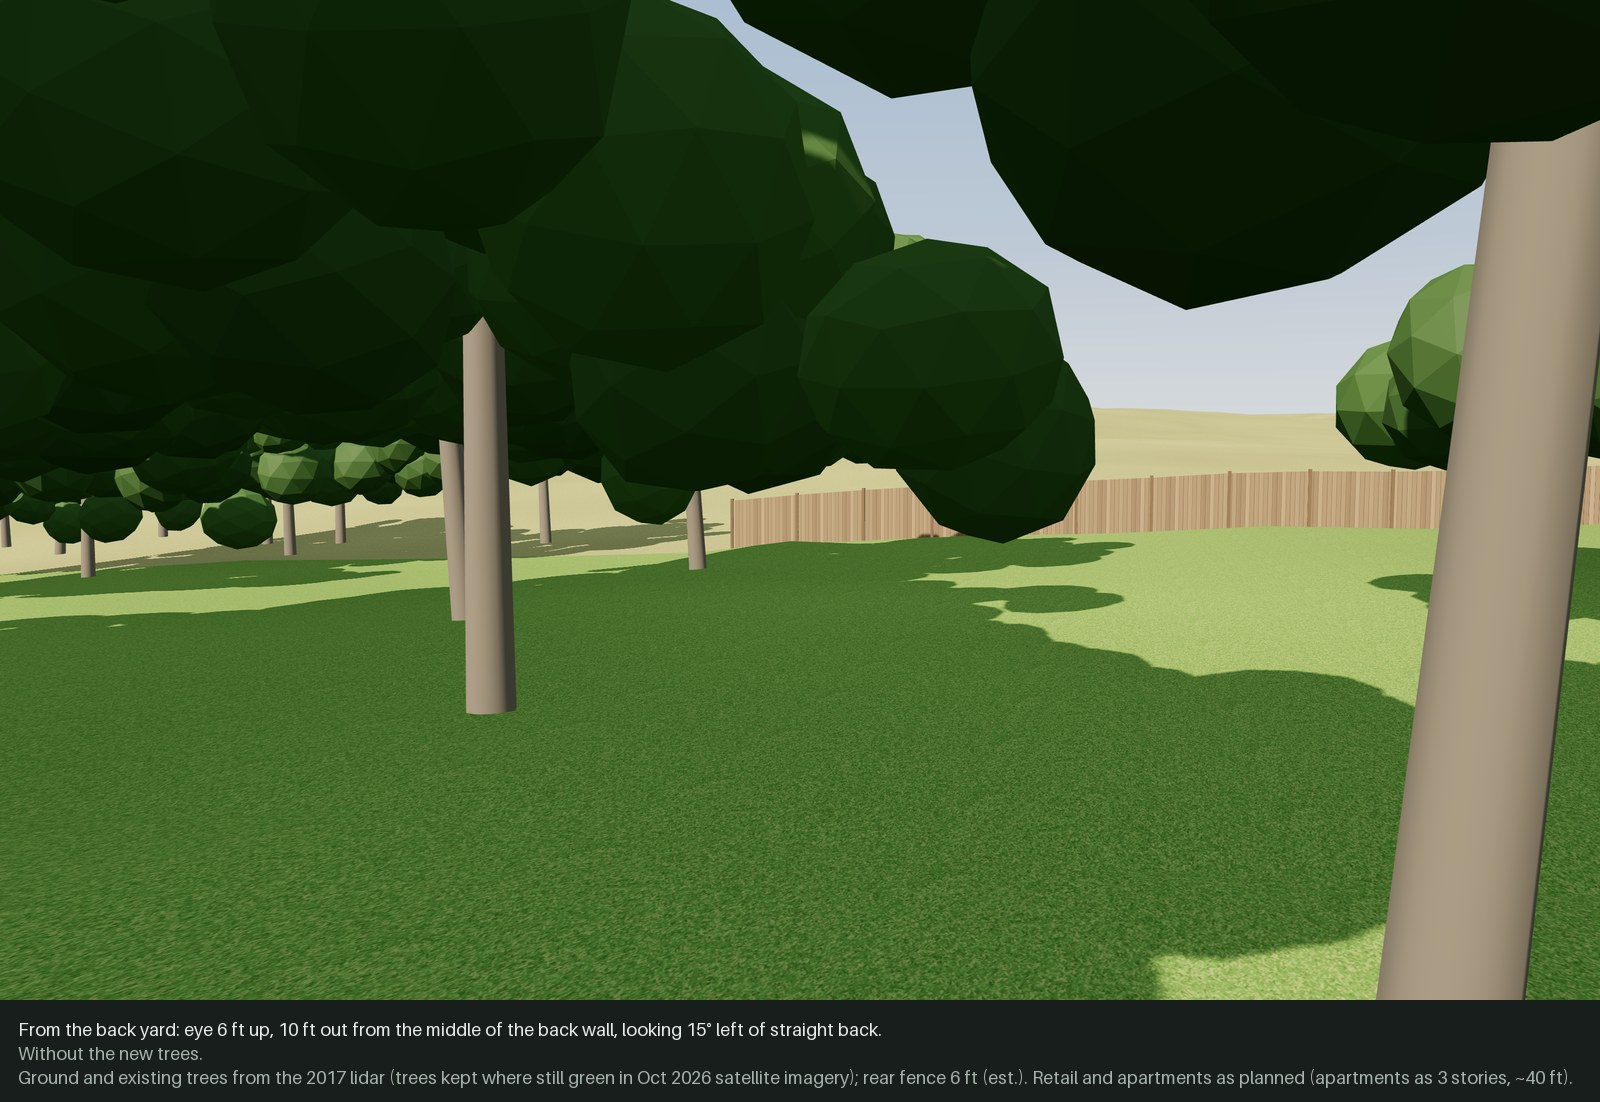
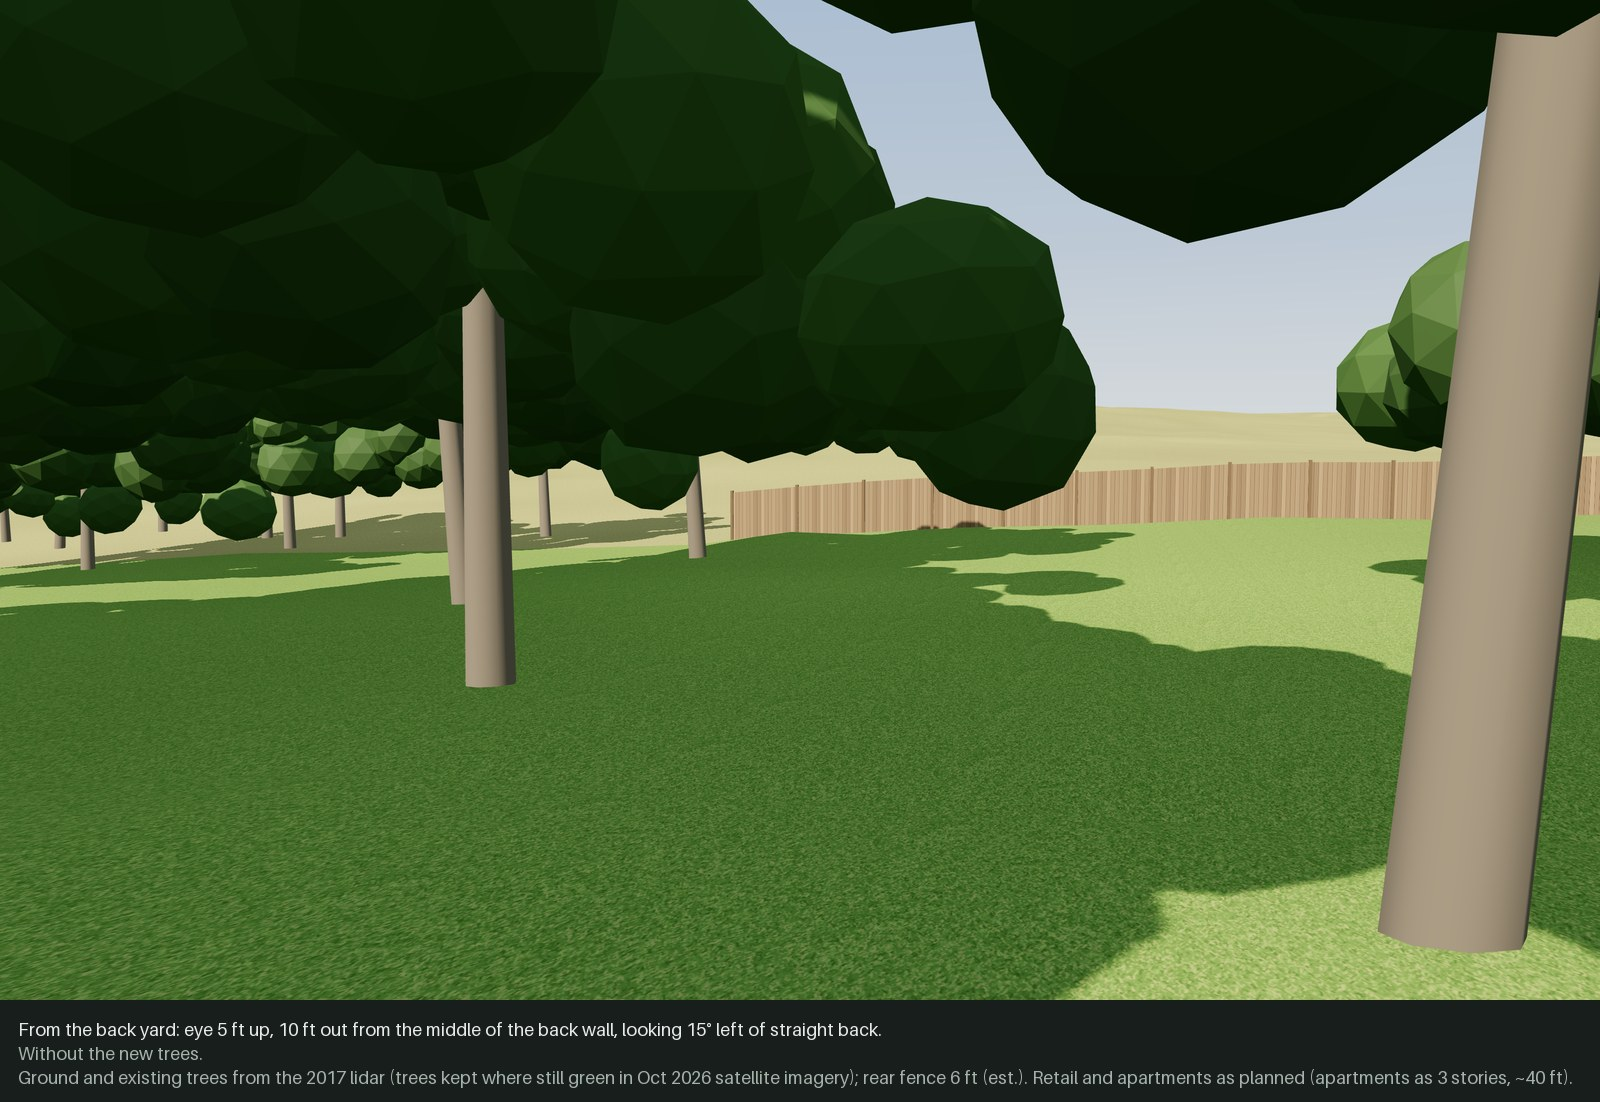
Mark the photo spot; eye at the owner's 5 ft camera height
The viewer marks the back-yard eye in the overhead and oblique views. It
gets a dot that keeps its size and shows through the trees, a pin, an
arrow on the ground along the gaze, and a "Photo spot" label. Clicking
it gives directions: 22.9 ft along the main back wall from the house's
SW corner, then 10 ft straight out, facing 15 degrees left of straight
back. The marker hides while looking from the spot itself.

The eye drops from 6 ft to 5 ft, the height the owner's camera will be
at, so the view and the renders match the photos. The render caption
now follows the plan3d.py constants.

Claude-Session: https://claude.ai/code/session_01DDx3ED6GLpo1Endgi9HoEQ

diff --git a/site/plan3d.html b/site/plan3d.html
@@ -70580,6 +70580,7 @@ l 56759 56760 56761 56762 56763 56764 56765 56766 56767 56768 56769 56770 56771 
   const items = {};   // id -> { node, materials, meta }
   const Z0_FT = 1048.7;
   const POLES = [{"xy": [-9.73, -34.86], "ft": 25, "drop_ft": 3.1}, {"xy": [-9.72, -27.24], "ft": 50, "drop_ft": 4.4}, {"xy": [-9.68, -12.0], "ft": 100, "drop_ft": 5.8}, {"xy": [-9.65, -0.61], "ft": 137, "drop_ft": 7.0}];   // range poles straight back from the back-yard eye (plan3d.py)
+  const BACKYARD = { "eye": [-9.75, -42.48, 3.14], "at": [-25.39, 16.44, -1.12], "spot": {"along_ft": 22.9, "out_ft": 10.0, "eye_ft": 5.0, "gaze_deg": 15.0} };   // the back-yard eye and gaze, and how to find the spot (plan3d.py)
   const GRID_TILE = 50 * 0.3048;   // one texture tile is 50 ft: lines every 5 ft, heavier every 25 ft
   function gridTexture() {
     const n = 1024, c = document.createElement("canvas"); c.width = c.height = n;
@@ -70772,6 +70773,33 @@ l 56759 56760 56761 56762 56763 56764 56765 56766 56767 56768 56769 56770 56771 
   }
   fadeCanopy(1);
 
+  // The back-yard eye, marked for taking photos from it: a dot that keeps its size on screen and shows
+  // through the trees, a pin down to the ground, and an arrow on the ground along the gaze. Hidden while
+  // looking from the spot itself.
+  const photoSpot = new THREE.Group();
+  {
+    const node = new THREE.Group(); node.userData.id = "photo_spot"; root.add(node); node.add(photoSpot);
+    const [ex, ey, ez] = BACKYARD.eye, [ax, ay] = BACKYARD.at, gz = groundAt(ex, ey);
+    const red = new THREE.MeshBasicMaterial({ color: 0xe8401c, side: THREE.DoubleSide });
+    const c = document.createElement("canvas"); c.width = c.height = 64;
+    const g2 = c.getContext("2d"); g2.beginPath(); g2.arc(32, 32, 25, 0, 7); g2.fillStyle = "#e8401c"; g2.fill();
+    g2.lineWidth = 7; g2.strokeStyle = "#ffffff"; g2.stroke();
+    const dot = new THREE.Sprite(new THREE.SpriteMaterial({ map: new THREE.CanvasTexture(c), sizeAttenuation: false, depthTest: false }));
+    dot.scale.set(0.03, 0.03, 1); dot.position.copy(P([ex, ey, ez])); dot.renderOrder = 10;
+    const pin = new THREE.Mesh(new THREE.CylinderGeometry(0.04, 0.04, ez - gz, 8), red);
+    pin.position.copy(P([ex, ey, (ez + gz) / 2]));
+    const dx = ax - ex, dy = ay - ey, L = Math.hypot(dx, dy), ux = dx / L, uy = dy / L, vx = -uy, vy = ux;
+    const at = (f, s) => { const x = ex + ux * f + vx * s, y = ey + uy * f + vy * s; return P([x, y, groundAt(x, y) + 0.06]); };
+    const pts = [at(0.3, -0.08), at(3, -0.08), at(3, 0.08), at(0.3, -0.08), at(3, 0.08), at(0.3, 0.08),   // shaft
+                 at(3, -0.45), at(4.2, 0), at(3, 0.45)];                                              // head
+    const arrow = new THREE.Mesh(new THREE.BufferGeometry().setFromPoints(pts), red);
+    for (const o of [dot, pin, arrow]) { o.userData.id = "photo_spot"; photoSpot.add(o); }
+    const s = BACKYARD.spot;
+    items.photo_spot = { node, mats: [], meta: { label: "Photo spot (back-yard eye)", group: "Your lot", token: "accent",
+      status: `camera ${s.eye_ft} ft up`, source: "plan3d.py: the main back wall from the 1991 survey's house outline.",
+      notes: `From the house's SW corner, go ${s.along_ft} ft along the back wall (toward the NW wing), then ${s.out_ft} ft straight out from the wall. Hold the camera ${s.eye_ft} ft up and face ${s.gaze_deg}° left of straight back (the arrow). The range poles mark straight back. Extra shots toward each end of the back line help too.` } };
+  }
+
   // Terrain tint by height, recomputed with the theme.
   function tintTerrain() {
     const t = items.terrain_lidar_2017; if (!t) return;
@@ -70809,6 +70837,7 @@ l 56759 56760 56761 56762 56763 56764 56765 56766 56767 56768 56769 56770 56771 
     ["scenic_brook_plaza_building_3", "Retail Bldg 3"], ["retail_east_end_stormwater", "Retail ponds"],
     ["platted_back_line", "Back line"], ["granada_ridge_buildings_7_8", "Apts 7/8 · 639 ft"],
     ["granada_ridge_buildings_1_6", "Apts 1-6"], ["scenic_brook_plaza_buildings_1_2", "Retail 1-2"],
+    ["photo_spot", "Photo spot"],
   ];
   const labelLayer = document.getElementById("labels");
   const tags = LABELS.filter(([id]) => items[id]).map(([id, text]) => {
@@ -70885,7 +70914,7 @@ l 56759 56760 56761 56762 56763 56764 56765 56766 56767 56768 56769 56770 56771 
   let exag = 1;
   const VIEWS = {
     oblique: { eye: [230, -330, 250], at: [-160, 90, 0] },
-    house:   { "eye": [-9.75, -42.48, 3.44], "at": [-25.39, 16.44, -0.82], exag: 1, mode: "look" },   // 6 ft up, 10 ft out from the back wall (plan3d.py)
+    house:   { ...BACKYARD, exag: 1, mode: "look" },   // the photo spot (plan3d.py)
     top:     { eye: [-250, 129, 760], at: [-250, 130, 0] },
   };
   const worldOf = (p) => { const v = P(p); v.y *= exag; return v; };
@@ -70917,7 +70946,7 @@ l 56759 56760 56761 56762 56763 56764 56765 56766 56767 56768 56769 56770 56771 
       camera.fov = 42; camera.updateProjectionMatrix();
       controls.enabled = true; controls.update();
     }
-    mode = m; hint.textContent = HINTS[m];
+    mode = m; hint.textContent = HINTS[m]; photoSpot.visible = m !== "look";
     document.querySelectorAll("button.mode").forEach(b => b.setAttribute("aria-pressed", String(b.dataset.mode === m)));
   }
   function applyLook() {
@@ -71026,6 +71055,7 @@ l 56759 56760 56761 56762 56763 56764 56765 56766 56767 56768 56769 56770 56771 
     if (now - since >= 1000) { fpsEl.textContent = `${Math.round(frames * 1000 / (now - since))} fps`; frames = 0; since = now; }
     const w = stage.clientWidth, h = stage.clientHeight;
     for (const t of [...tags, ...extraTags]) {
+      if (t.id === "photo_spot" && !photoSpot.visible) { t.el.hidden = true; continue; }
       if (t.id && !items[t.id].node.visible) continue;
       tmp.copy(t.local); tmp.y *= exag; tmp.project(camera);
       const off = tmp.z > 1 || tmp.x < -1.1 || tmp.x > 1.1 || tmp.y < -1.1 || tmp.y > 1.1;

diff --git a/tools/plan3d_viewer.html b/tools/plan3d_viewer.html
@@ -335,6 +335,7 @@ details li b { font-weight: 600; }
   const items = {};   // id -> { node, materials, meta }
   const Z0_FT = /*Z0_FT*/;
   const POLES = /*POLES*/;   // range poles straight back from the back-yard eye (plan3d.py)
+  const BACKYARD = { /*BACKYARD*/ };   // the back-yard eye and gaze, and how to find the spot (plan3d.py)
   const GRID_TILE = 50 * 0.3048;   // one texture tile is 50 ft: lines every 5 ft, heavier every 25 ft
   function gridTexture() {
     const n = 1024, c = document.createElement("canvas"); c.width = c.height = n;
@@ -527,6 +528,33 @@ details li b { font-weight: 600; }
   }
   fadeCanopy(1);
 
+  // The back-yard eye, marked for taking photos from it: a dot that keeps its size on screen and shows
+  // through the trees, a pin down to the ground, and an arrow on the ground along the gaze. Hidden while
+  // looking from the spot itself.
+  const photoSpot = new THREE.Group();
+  {
+    const node = new THREE.Group(); node.userData.id = "photo_spot"; root.add(node); node.add(photoSpot);
+    const [ex, ey, ez] = BACKYARD.eye, [ax, ay] = BACKYARD.at, gz = groundAt(ex, ey);
+    const red = new THREE.MeshBasicMaterial({ color: 0xe8401c, side: THREE.DoubleSide });
+    const c = document.createElement("canvas"); c.width = c.height = 64;
+    const g2 = c.getContext("2d"); g2.beginPath(); g2.arc(32, 32, 25, 0, 7); g2.fillStyle = "#e8401c"; g2.fill();
+    g2.lineWidth = 7; g2.strokeStyle = "#ffffff"; g2.stroke();
+    const dot = new THREE.Sprite(new THREE.SpriteMaterial({ map: new THREE.CanvasTexture(c), sizeAttenuation: false, depthTest: false }));
+    dot.scale.set(0.03, 0.03, 1); dot.position.copy(P([ex, ey, ez])); dot.renderOrder = 10;
+    const pin = new THREE.Mesh(new THREE.CylinderGeometry(0.04, 0.04, ez - gz, 8), red);
+    pin.position.copy(P([ex, ey, (ez + gz) / 2]));
+    const dx = ax - ex, dy = ay - ey, L = Math.hypot(dx, dy), ux = dx / L, uy = dy / L, vx = -uy, vy = ux;
+    const at = (f, s) => { const x = ex + ux * f + vx * s, y = ey + uy * f + vy * s; return P([x, y, groundAt(x, y) + 0.06]); };
+    const pts = [at(0.3, -0.08), at(3, -0.08), at(3, 0.08), at(0.3, -0.08), at(3, 0.08), at(0.3, 0.08),   // shaft
+                 at(3, -0.45), at(4.2, 0), at(3, 0.45)];                                              // head
+    const arrow = new THREE.Mesh(new THREE.BufferGeometry().setFromPoints(pts), red);
+    for (const o of [dot, pin, arrow]) { o.userData.id = "photo_spot"; photoSpot.add(o); }
+    const s = BACKYARD.spot;
+    items.photo_spot = { node, mats: [], meta: { label: "Photo spot (back-yard eye)", group: "Your lot", token: "accent",
+      status: `camera ${s.eye_ft} ft up`, source: "plan3d.py: the main back wall from the 1991 survey's house outline.",
+      notes: `From the house's SW corner, go ${s.along_ft} ft along the back wall (toward the NW wing), then ${s.out_ft} ft straight out from the wall. Hold the camera ${s.eye_ft} ft up and face ${s.gaze_deg}° left of straight back (the arrow). The range poles mark straight back. Extra shots toward each end of the back line help too.` } };
+  }
+
   // Terrain tint by height, recomputed with the theme.
   function tintTerrain() {
     const t = items.terrain_lidar_2017; if (!t) return;
@@ -564,6 +592,7 @@ details li b { font-weight: 600; }
     ["scenic_brook_plaza_building_3", "Retail Bldg 3"], ["retail_east_end_stormwater", "Retail ponds"],
     ["platted_back_line", "Back line"], ["granada_ridge_buildings_7_8", "Apts 7/8 · 639 ft"],
     ["granada_ridge_buildings_1_6", "Apts 1-6"], ["scenic_brook_plaza_buildings_1_2", "Retail 1-2"],
+    ["photo_spot", "Photo spot"],
   ];
   const labelLayer = document.getElementById("labels");
   const tags = LABELS.filter(([id]) => items[id]).map(([id, text]) => {
@@ -640,7 +669,7 @@ details li b { font-weight: 600; }
   let exag = 1;
   const VIEWS = {
     oblique: { eye: [230, -330, 250], at: [-160, 90, 0] },
-    house:   { /*BACKYARD*/, exag: 1, mode: "look" },   // 6 ft up, 10 ft out from the back wall (plan3d.py)
+    house:   { ...BACKYARD, exag: 1, mode: "look" },   // the photo spot (plan3d.py)
     top:     { eye: [-250, 129, 760], at: [-250, 130, 0] },
   };
   const worldOf = (p) => { const v = P(p); v.y *= exag; return v; };
@@ -672,7 +701,7 @@ details li b { font-weight: 600; }
       camera.fov = 42; camera.updateProjectionMatrix();
       controls.enabled = true; controls.update();
     }
-    mode = m; hint.textContent = HINTS[m];
+    mode = m; hint.textContent = HINTS[m]; photoSpot.visible = m !== "look";
     document.querySelectorAll("button.mode").forEach(b => b.setAttribute("aria-pressed", String(b.dataset.mode === m)));
   }
   function applyLook() {
@@ -781,6 +810,7 @@ details li b { font-weight: 600; }
     if (now - since >= 1000) { fpsEl.textContent = `${Math.round(frames * 1000 / (now - since))} fps`; frames = 0; since = now; }
     const w = stage.clientWidth, h = stage.clientHeight;
     for (const t of [...tags, ...extraTags]) {
+      if (t.id === "photo_spot" && !photoSpot.visible) { t.el.hidden = true; continue; }
       if (t.id && !items[t.id].node.visible) continue;
       tmp.copy(t.local); tmp.y *= exag; tmp.project(camera);
       const off = tmp.z > 1 || tmp.x < -1.1 || tmp.x > 1.1 || tmp.y < -1.1 || tmp.y > 1.1;

diff --git a/tools/render_view.py b/tools/render_view.py
@@ -26,7 +26,8 @@ import rich_click as click
 from PIL import Image, ImageDraw, ImageFont
 from playwright.sync_api import sync_playwright
 
-from plan3d import B_EAVE, CANOPY, FT, PLANTS, SPEC, TERRAIN, Canopy, Frame, Terrain, backyard, planting, read_jsonc
+from plan3d import (B_EAVE, BACKYARD_EYE, BACKYARD_GAZE, CANOPY, FT, PLANTS, SPEC, TERRAIN, Canopy, Frame, Terrain,
+                    backyard, planting, read_jsonc)
 from site_plan import REPO, SITE_B
 
 TEMPLATE = REPO / "tools" / "render_view.html"
@@ -124,7 +125,8 @@ def main(stage: str, width: int, height: int, chromium: Path | None, out_dir: Pa
                       for p in ("holly", "yaupon", "laurel"))
     common = ("Ground and existing trees from the 2017 lidar (trees kept where still green in Oct 2026 satellite imagery); "
               "rear fence 6 ft (est.). Retail and apartments as planned (apartments as 3 stories, ~40 ft).")
-    head = "From the back yard: eye 6 ft up, 10 ft out from the middle of the back wall, looking 15° left of straight back."
+    head = (f"From the back yard: eye {BACKYARD_EYE[1]:g} ft up, {BACKYARD_EYE[0]:g} ft out from the middle of the back wall, "
+            f"looking {BACKYARD_GAZE[0]:g}° left of straight back.")
     renders = {"bare": (False, [head, "Without the new trees.", common]),
                stage: (True, [head, f"New back-line trees {STAGE_TEXT[stage]}, in the gaps between existing trees: {sizes}.",
                               common])}

diff --git a/tools/plan3d.py b/tools/plan3d.py
@@ -57,7 +57,7 @@ PLANTS = {
 }
 DRAPE_STEP = 2.0  # m between draped vertices
 BACK_WALL_ST = ((100.8, 22.9), (100.8, 68.8))  # the main block's back wall, facing the back lawn (survey s, t)
-BACKYARD_EYE = (10.0, 6.0)  # ft out from that wall's midpoint, and ft above the ground there
+BACKYARD_EYE = (10.0, 5.0)  # ft out from that wall's midpoint, and ft above the ground there (the owner's camera)
 BACKYARD_GAZE = (15.0, 4.0)  # degrees left of straight back (toward the apartments), and below level
 POLES = (25.0, 50.0, 100.0)  # ft straight back from the back-yard eye: 6 ft range poles for scale
 POLE_INSET = 2.0  # ft inside the back line for one more pole
@@ -328,7 +328,8 @@ def backyard(ground: Terrain, to_m: Frame) -> tuple[dict, list[dict]]:
     left, down, reach = math.radians(BACKYARD_GAZE[0]), math.radians(BACKYARD_GAZE[1]), 200.0  # ft
     at_xy = to_m(site([st(s_eye + reach * math.cos(left), t_eye - reach * math.sin(left))])[0])
     at = [round(at_xy[0], 2), round(at_xy[1], 2), round(eye[2] - reach * FT * math.tan(down), 2)]
-    return {"eye": eye, "at": at}, poles
+    spot = {"along_ft": round((t1 - t0) / 2, 1), "out_ft": BACKYARD_EYE[0], "eye_ft": BACKYARD_EYE[1], "gaze_deg": BACKYARD_GAZE[0]}
+    return {"eye": eye, "at": at, "spot": spot}, poles
 
 
 def write_viewer(path: Path, obj_text: str, plan: dict, checks: list[dict], backyard: dict,

diff --git a/site/notes.md b/site/notes.md
@@ -655,8 +655,16 @@ checks.
     - The leasing plan shows Building 1 smaller than the aerial overlay did (~83 × 74 ft).
     - The flyer gives the leased space as 1,765 + 2,075 sq ft.
   - **Viewer:** `site/plan3d.html`.
-    - **Back-yard view:** an eye 6 ft above the ground, 10 ft out from the middle of the
-      house's back wall, at true scale (1×).
+    - **Back-yard view:** an eye 10 ft out from the middle of the house's back wall, at true
+      scale (1×).
+      - **Eye height:** 5 ft since Oct 13, the owner's camera height. It was 6 ft before;
+        the ground figures below still use a ~6 ft standing eye.
+      - **Photo spot (Oct 13):** a dot and arrow mark it in the overhead and oblique views.
+        - From the house's SW corner, go 22.9 ft along the main back wall (toward the NW
+          wing), then 10 ft straight out.
+        - Face 15° left of straight back.
+        - A deck runs off the back of the house, so the spot may be on or by it. If it's on
+          the deck, note the deck's height so the model's eye can match.
       - It looks 15° left of straight back, toward the apartments, and 4° below level.
       - There you look around in place (drag, arrow keys; scroll zooms the lens). The
         overview views orbit.
